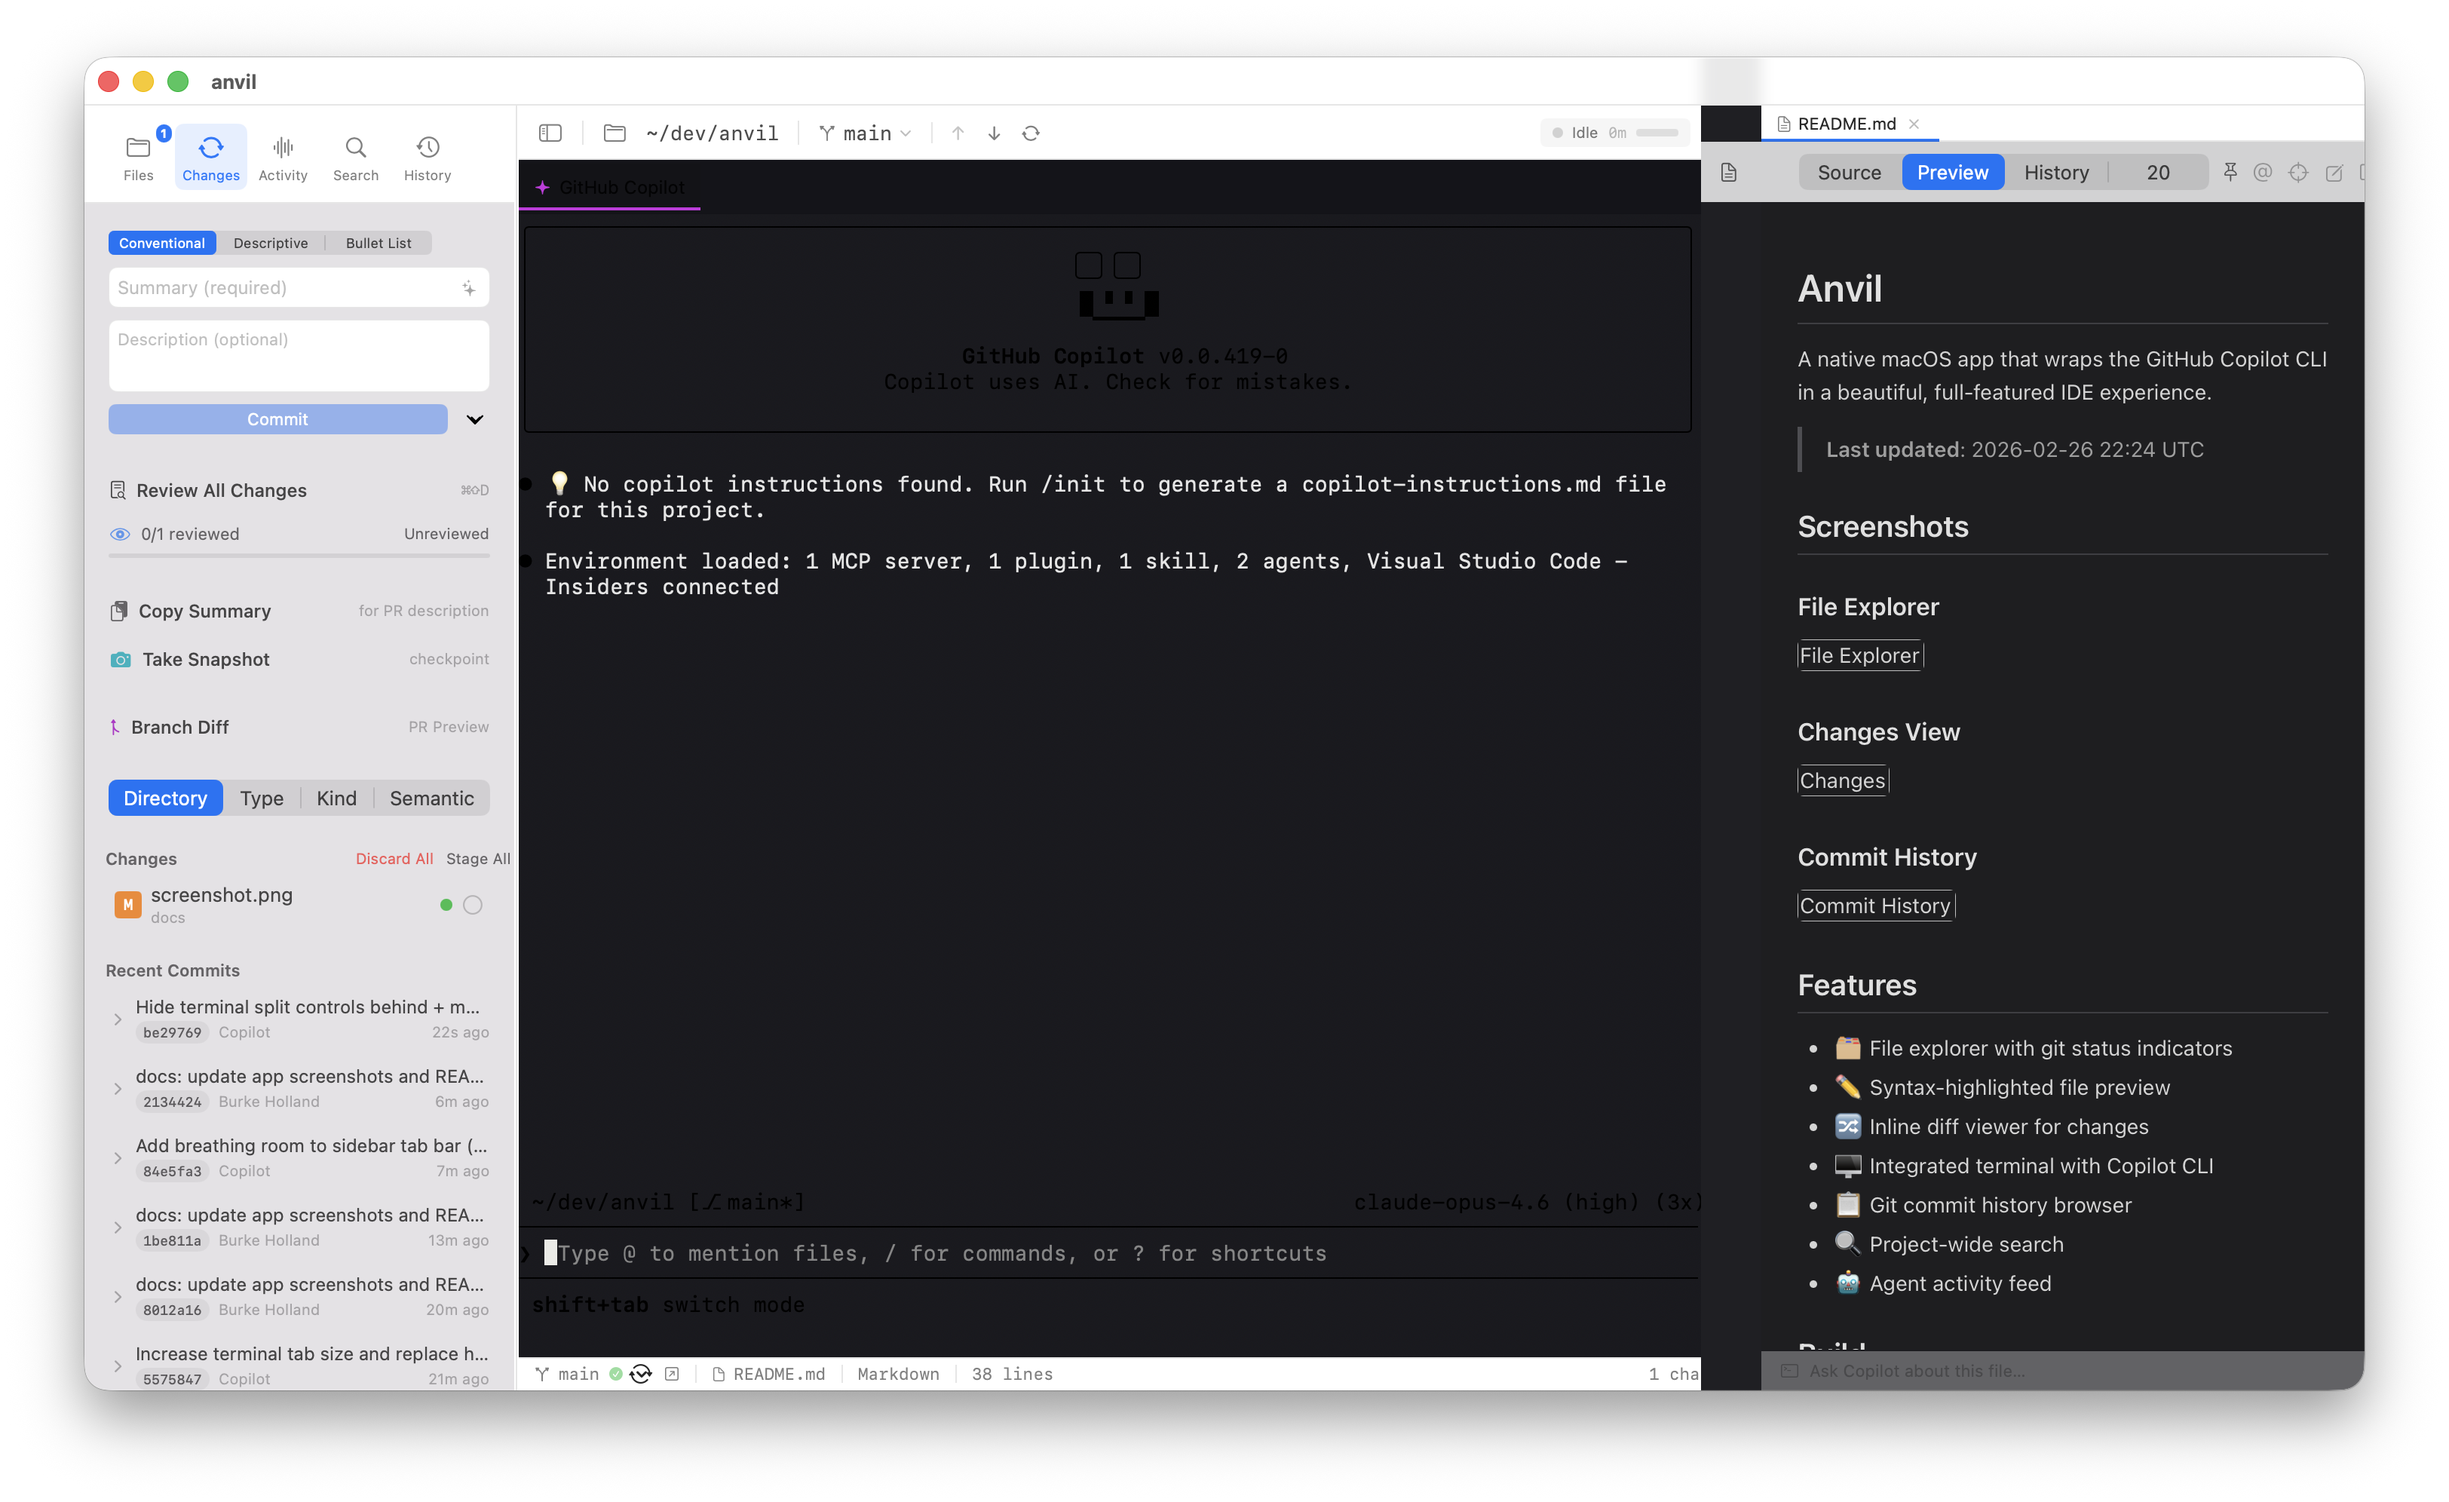
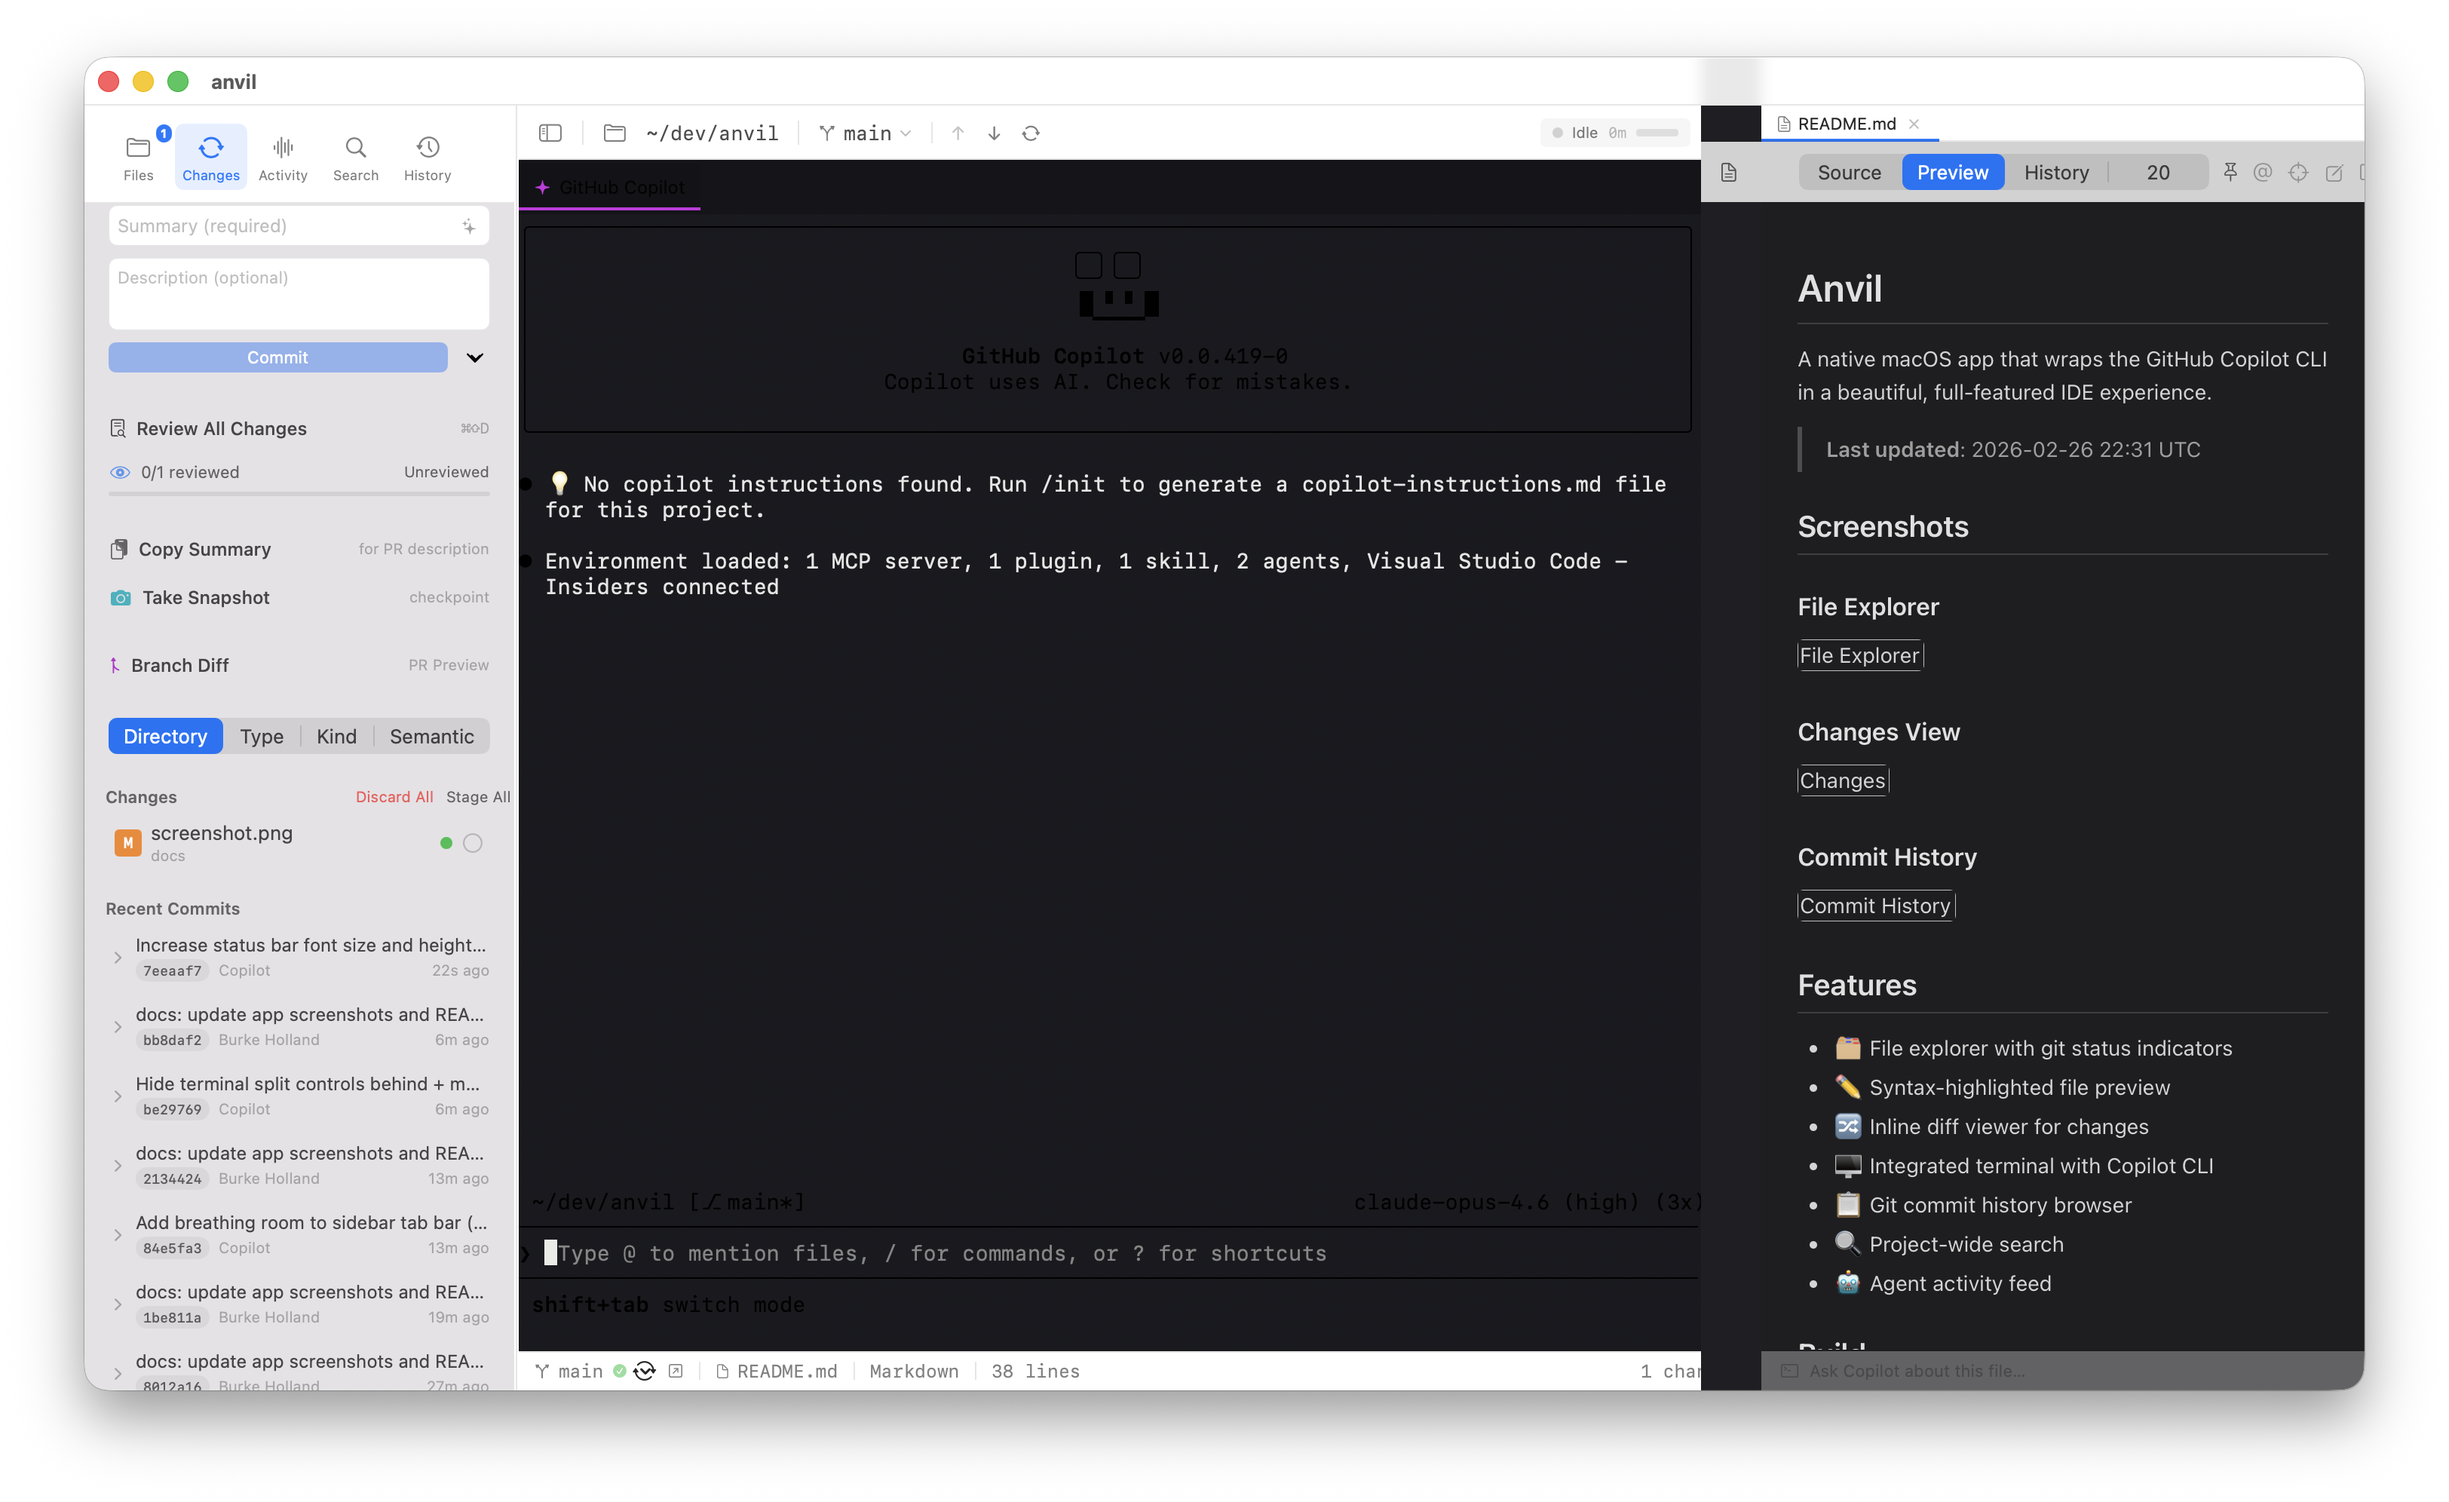
docs: update app screenshots and README (2026-02-26 22:38 UTC)

diff --git a/README.md b/README.md
@@ -2,7 +2,7 @@
 
 A native macOS app that wraps the GitHub Copilot CLI in a beautiful, full-featured IDE experience.
 
-> **Last updated**: 2026-02-26 22:31 UTC
+> **Last updated**: 2026-02-26 22:38 UTC
 
 ## Screenshots
 
